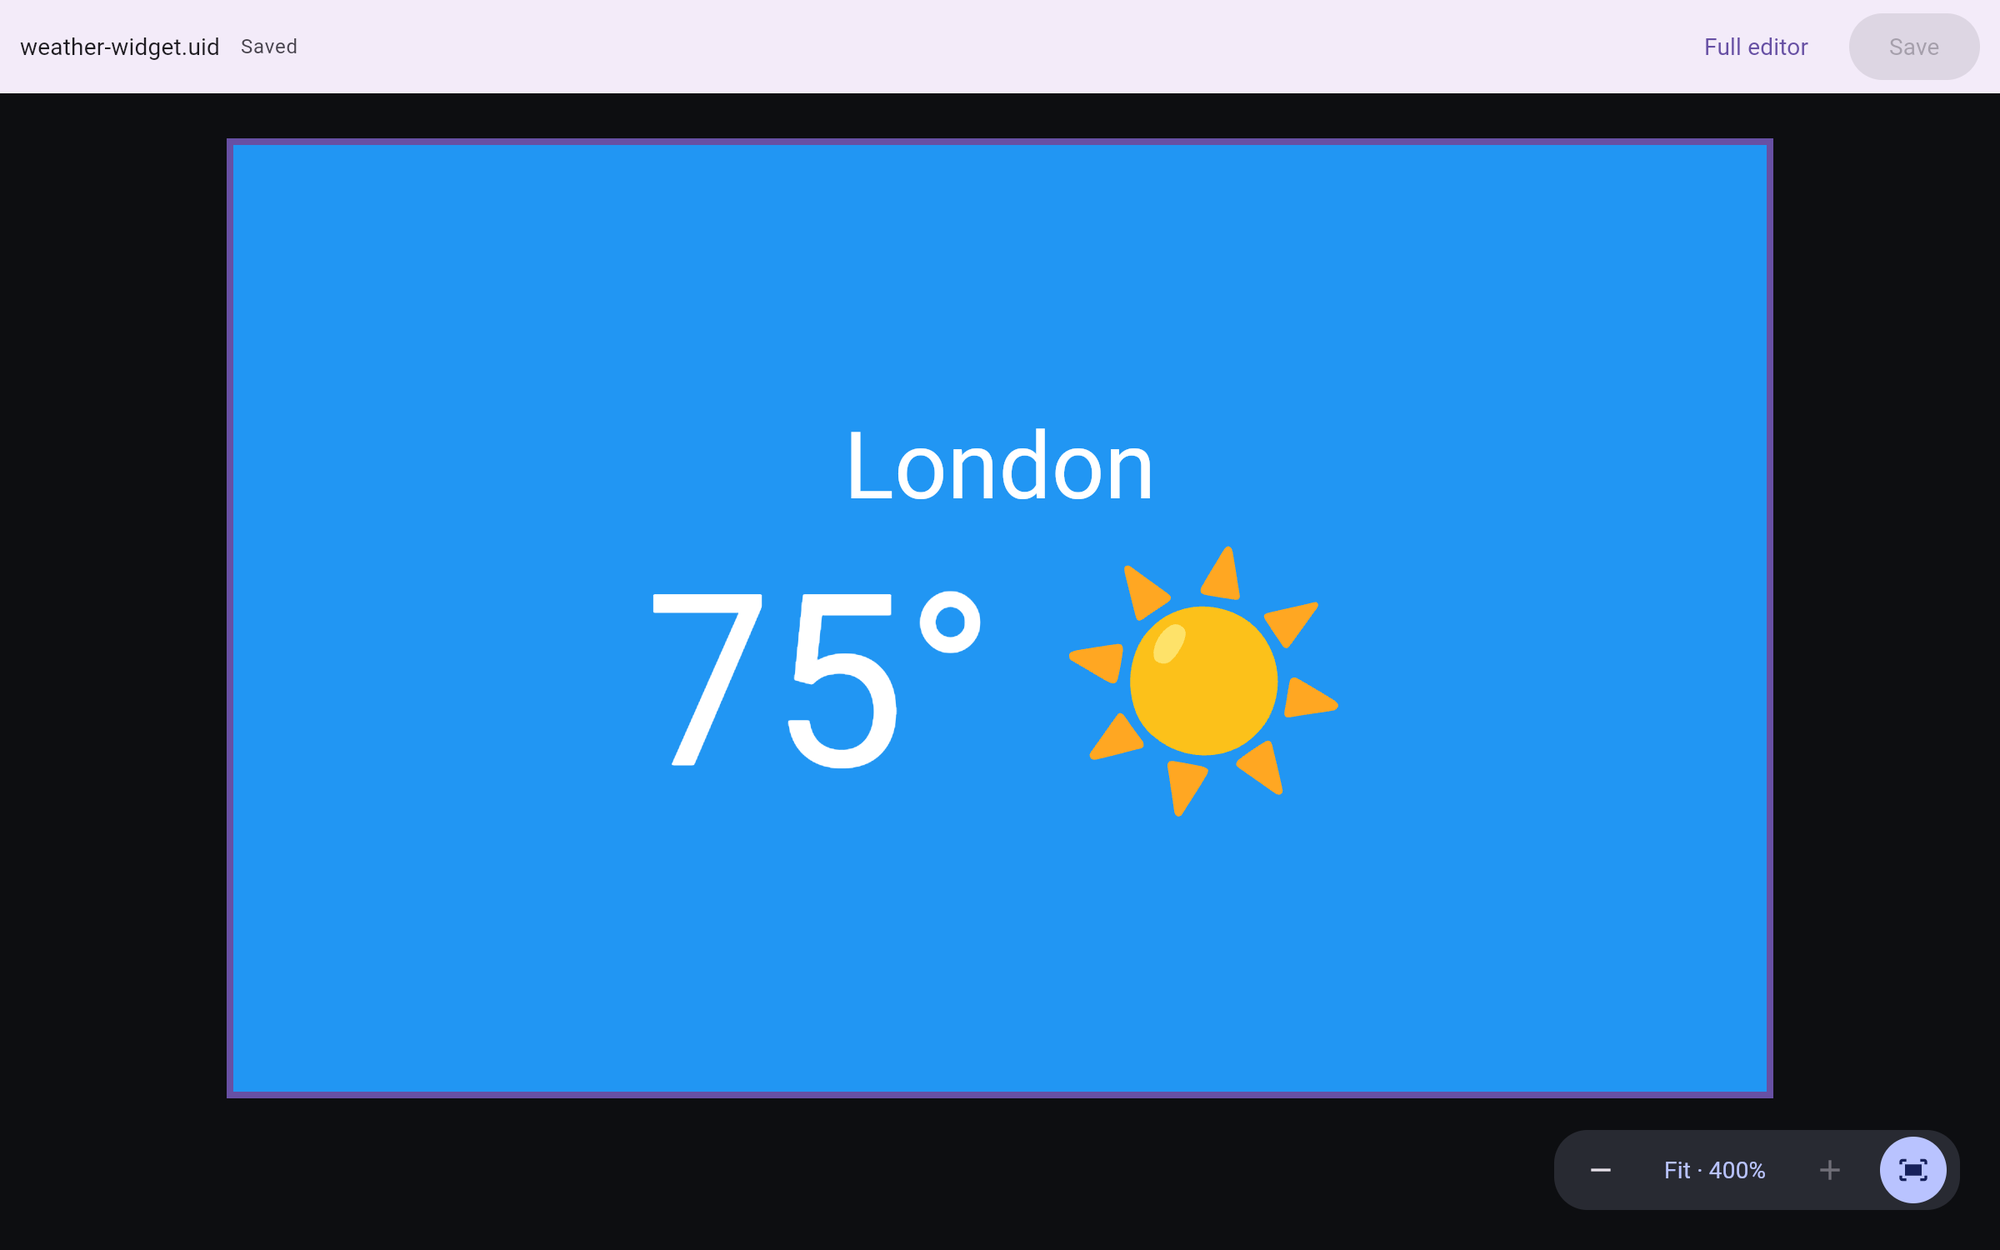
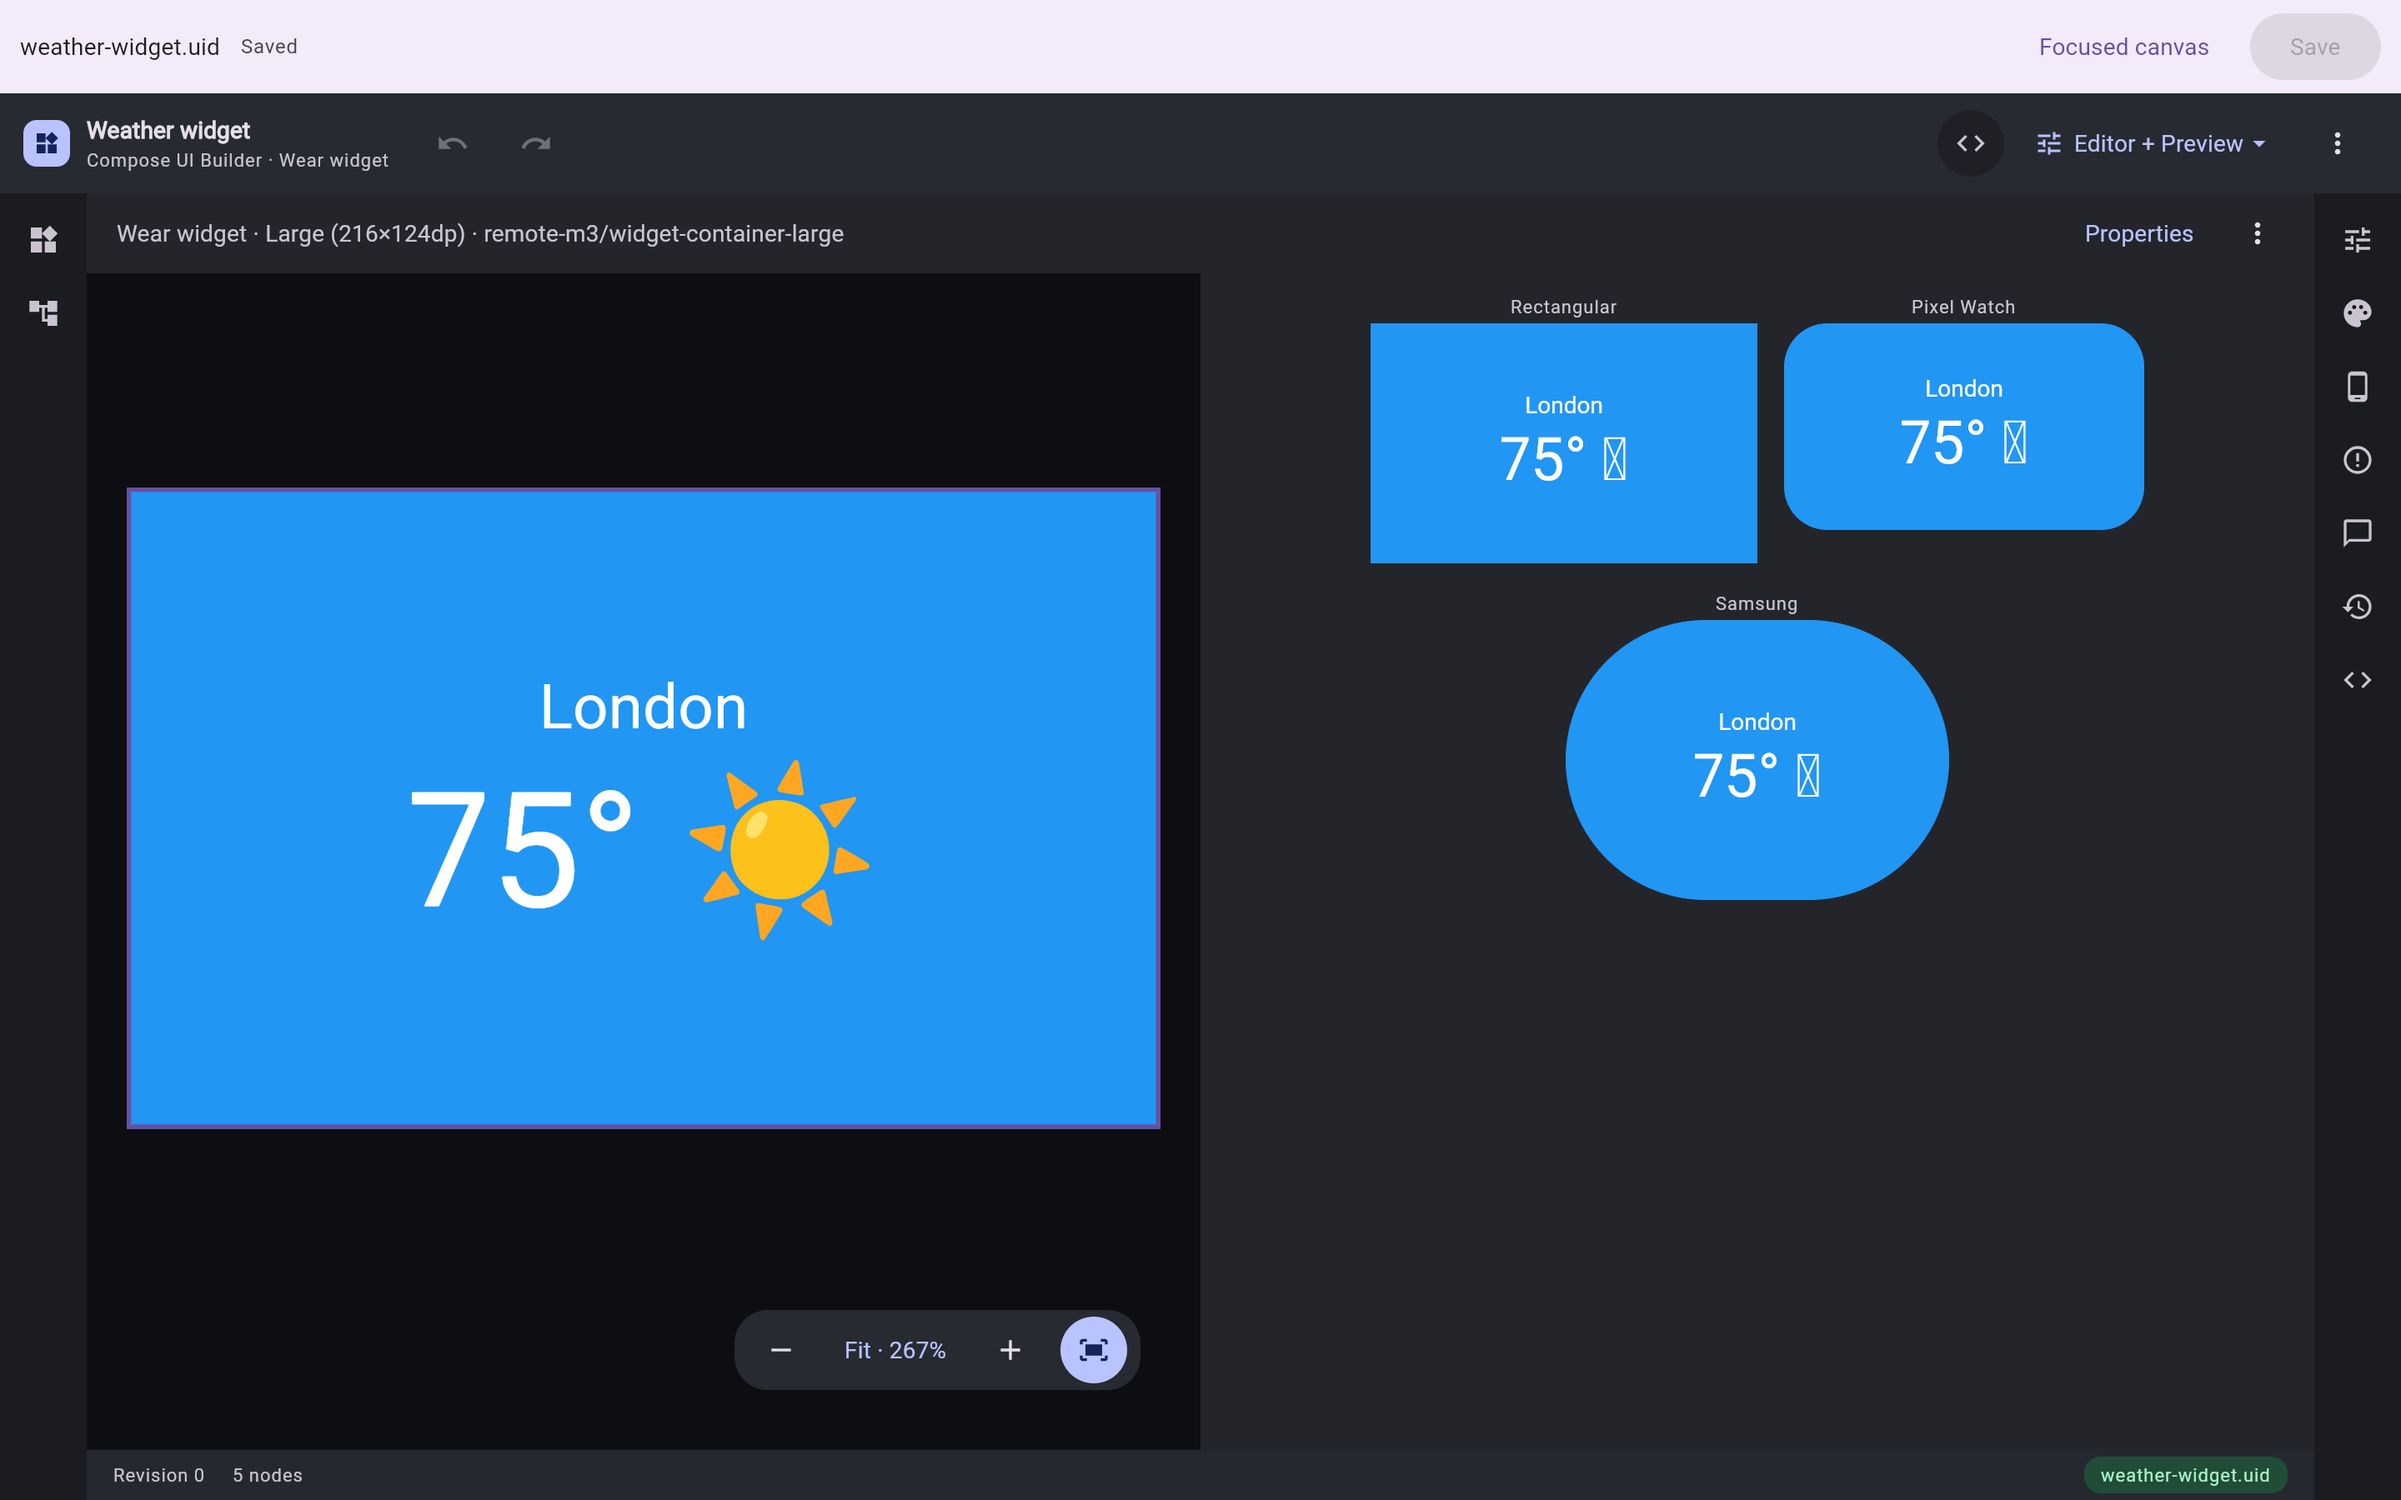
fix(site): unblock the screenshot refresh; gallery shows each design's devices (#435)
* feat(site): gallery shows each design across its devices

A gallery design is about one design on many screens, so each one now
previews on its devices in the full editor (Editor + Preview):

- Weather widget: its launcher hosts, both corner styles (Samsung's fully
  rounded and Pixel Watch's rounded rectangle) plus rectangular, which a
  widget previews in on its own.
- Home devices: small, large and XL round watches.
- Gmail: a phone and a tablet, as it adapts from bar to rail.

The devices are the designs' export devices (gallery.json `devices`), so
live.html opens with them too and the Compose export writes them as
@Preview(device = …).

Claude-Session: https://claude.ai/code/session_01RmVKgDApujVdGLzcErXRun

* fix(site): unblock the screenshot refresh and tidy Get started

- capture.mjs: serve the source MCP App shell when the editor build has none.
  `wasmFrontendDist` doesn't package `mcp-app/`, so every gallery scene timed
  out and the refresh workflow never opened its pull request.
- Step 3 no longer catches the "Code · hide" tooltip. The Gmail feature picture
  claims phone + tablet, so its preview panel isn't empty.
- Commands wrap instead of running under the Copy button. The agent prompt
  collapses behind "Show the whole prompt", and its last line is one sentence.
- The headline keeps "with your agent." together and balances its lines.

https://claude.ai/code/session_01RmVKgDApujVdGLzcErXRun
[…]

diff --git a/site/index.html b/site/index.html
@@ -168,7 +168,7 @@ url = "https://preview.coo.ee/mcp"</code></pre>
           <p>Press <strong>Copy prompt for your agent</strong> in the editor's toolbar, paste it into
             your agent, and add what you want after it. The prompt names your design in place of
             <code>&lt;design&gt;</code>:</p>
-          <pre class="prompt"><code>Work with the Compose UI Builder design `<span class="placeholder">&lt;design&gt;</span>`:
+          <pre class="prompt collapsed"><code>Work with the Compose UI Builder design `<span class="placeholder">&lt;design&gt;</span>`:
 https://preview.coo.ee/ui-builder/<span class="placeholder">&lt;design&gt;</span>
 
 Use the `compose-preview-catalog` MCP server, https://preview.coo.ee/mcp. If your tools do not include it, stop and ask me to add it and restart this session, for example:
@@ -178,8 +178,7 @@ If you can, load the `compose-ui-builder` skill from https://github.com/yschimke
 
 Request `ui-builder-read`, `ui-builder-write`, and `ui-builder-export` through the server's agent-access flow. Do not put a bearer token in a URL, command line, repository, or chat. Once approved, read the design and its comments before editing; use its current revision as `baseRevision`, make edits with `ui_builder_apply`, then check the Compose export with `ui_builder_export`. Report the design URL and revision after each visible step.
 
-Turn it into a podcast library with "Latest episodes" and "Podcasts" buttons,
-then a Queue section with Up Next.</code></pre>
+Turn it into a podcast library with "Latest episodes" and "Podcasts" buttons, then a Queue section with Up Next.</code></pre>
           <p>The prompt names the design and the server and tells the agent to ask for its own access,
             which you approve in the browser. No token is ever pasted. Keep the editor open beside
             the chat: the agent's edits appear as it makes them.</p>

diff --git a/site/styles.css b/site/styles.css
@@ -89,8 +89,9 @@ section { padding: clamp(56px, 8vw, 104px) 20px; max-width: 1200px; margin: 0 au
   display: inline-block; margin: 0 0 10px; padding: 3px 12px; border-radius: 999px;
   background: var(--surface-2); color: var(--muted); font-size: .85rem; font-weight: 600;
 }
-.hero h1 { font-size: clamp(1.9rem, 3.4vw, 2.9rem); margin: 0 auto .25em; max-width: 1000px; }
+.hero h1 { font-size: clamp(1.9rem, 3.4vw, 2.9rem); margin: 0 auto .25em; max-width: 1000px; text-wrap: balance; }
 .accent {
+  display: inline-block; white-space: nowrap;
   background: linear-gradient(90deg, var(--accent), var(--accent-2));
   -webkit-background-clip: text; background-clip: text; color: transparent;
 }
@@ -179,7 +180,20 @@ pre {
   background: var(--code-bg); color: var(--code-fg); border-radius: 12px; font-size: .88rem; line-height: 1.5;
 }
 pre code { font-size: inherit; }
-pre.prompt { white-space: pre-wrap; overflow-wrap: anywhere; }
+/* Commands wrap rather than scroll, so the Copy button never sits over the end of one. */
+pre { white-space: pre-wrap; overflow-wrap: anywhere; }
+/* The agent prompt is long: the first lines show, the rest behind "Show the whole prompt". Copy
+   copies all of it either way. */
+pre.prompt.collapsed {
+  max-height: 11.5em; overflow: hidden;
+  -webkit-mask-image: linear-gradient(to bottom, #000 60%, transparent);
+  mask-image: linear-gradient(to bottom, #000 60%, transparent);
+}
+.prompt-toggle {
+  font: inherit; font-size: .9rem; font-weight: 600; cursor: pointer; margin: -6px 0 12px;
+  padding: 6px 14px; border-radius: 999px; border: 1px solid var(--line);
+  background: transparent; color: var(--accent);
+}
 .placeholder { color: #ffd479; font-style: italic; }
 .copy {
   position: absolute; top: 8px; right: 8px; font: 600 .75rem system-ui, sans-serif; cursor: pointer;

diff --git a/site/site.js b/site/site.js
@@ -64,3 +64,20 @@ for (const pre of document.querySelectorAll('pre')) {
   });
   pre.appendChild(button);
 }
+
+// The agent prompt: collapsed to its first lines until asked for, so Get started stays readable.
+for (const pre of document.querySelectorAll('pre.prompt')) {
+  const toggle = document.createElement('button');
+  toggle.type = 'button';
+  toggle.className = 'prompt-toggle';
+  const label = () => (toggle.textContent = pre.classList.contains('collapsed')
+    ? 'Show the whole prompt' : 'Show less');
+  label();
+  toggle.setAttribute('aria-expanded', 'false');
+  toggle.addEventListener('click', () => {
+    const collapsed = pre.classList.toggle('collapsed');
+    toggle.setAttribute('aria-expanded', String(!collapsed));
+    label();
+  });
+  pre.after(toggle);
+}
